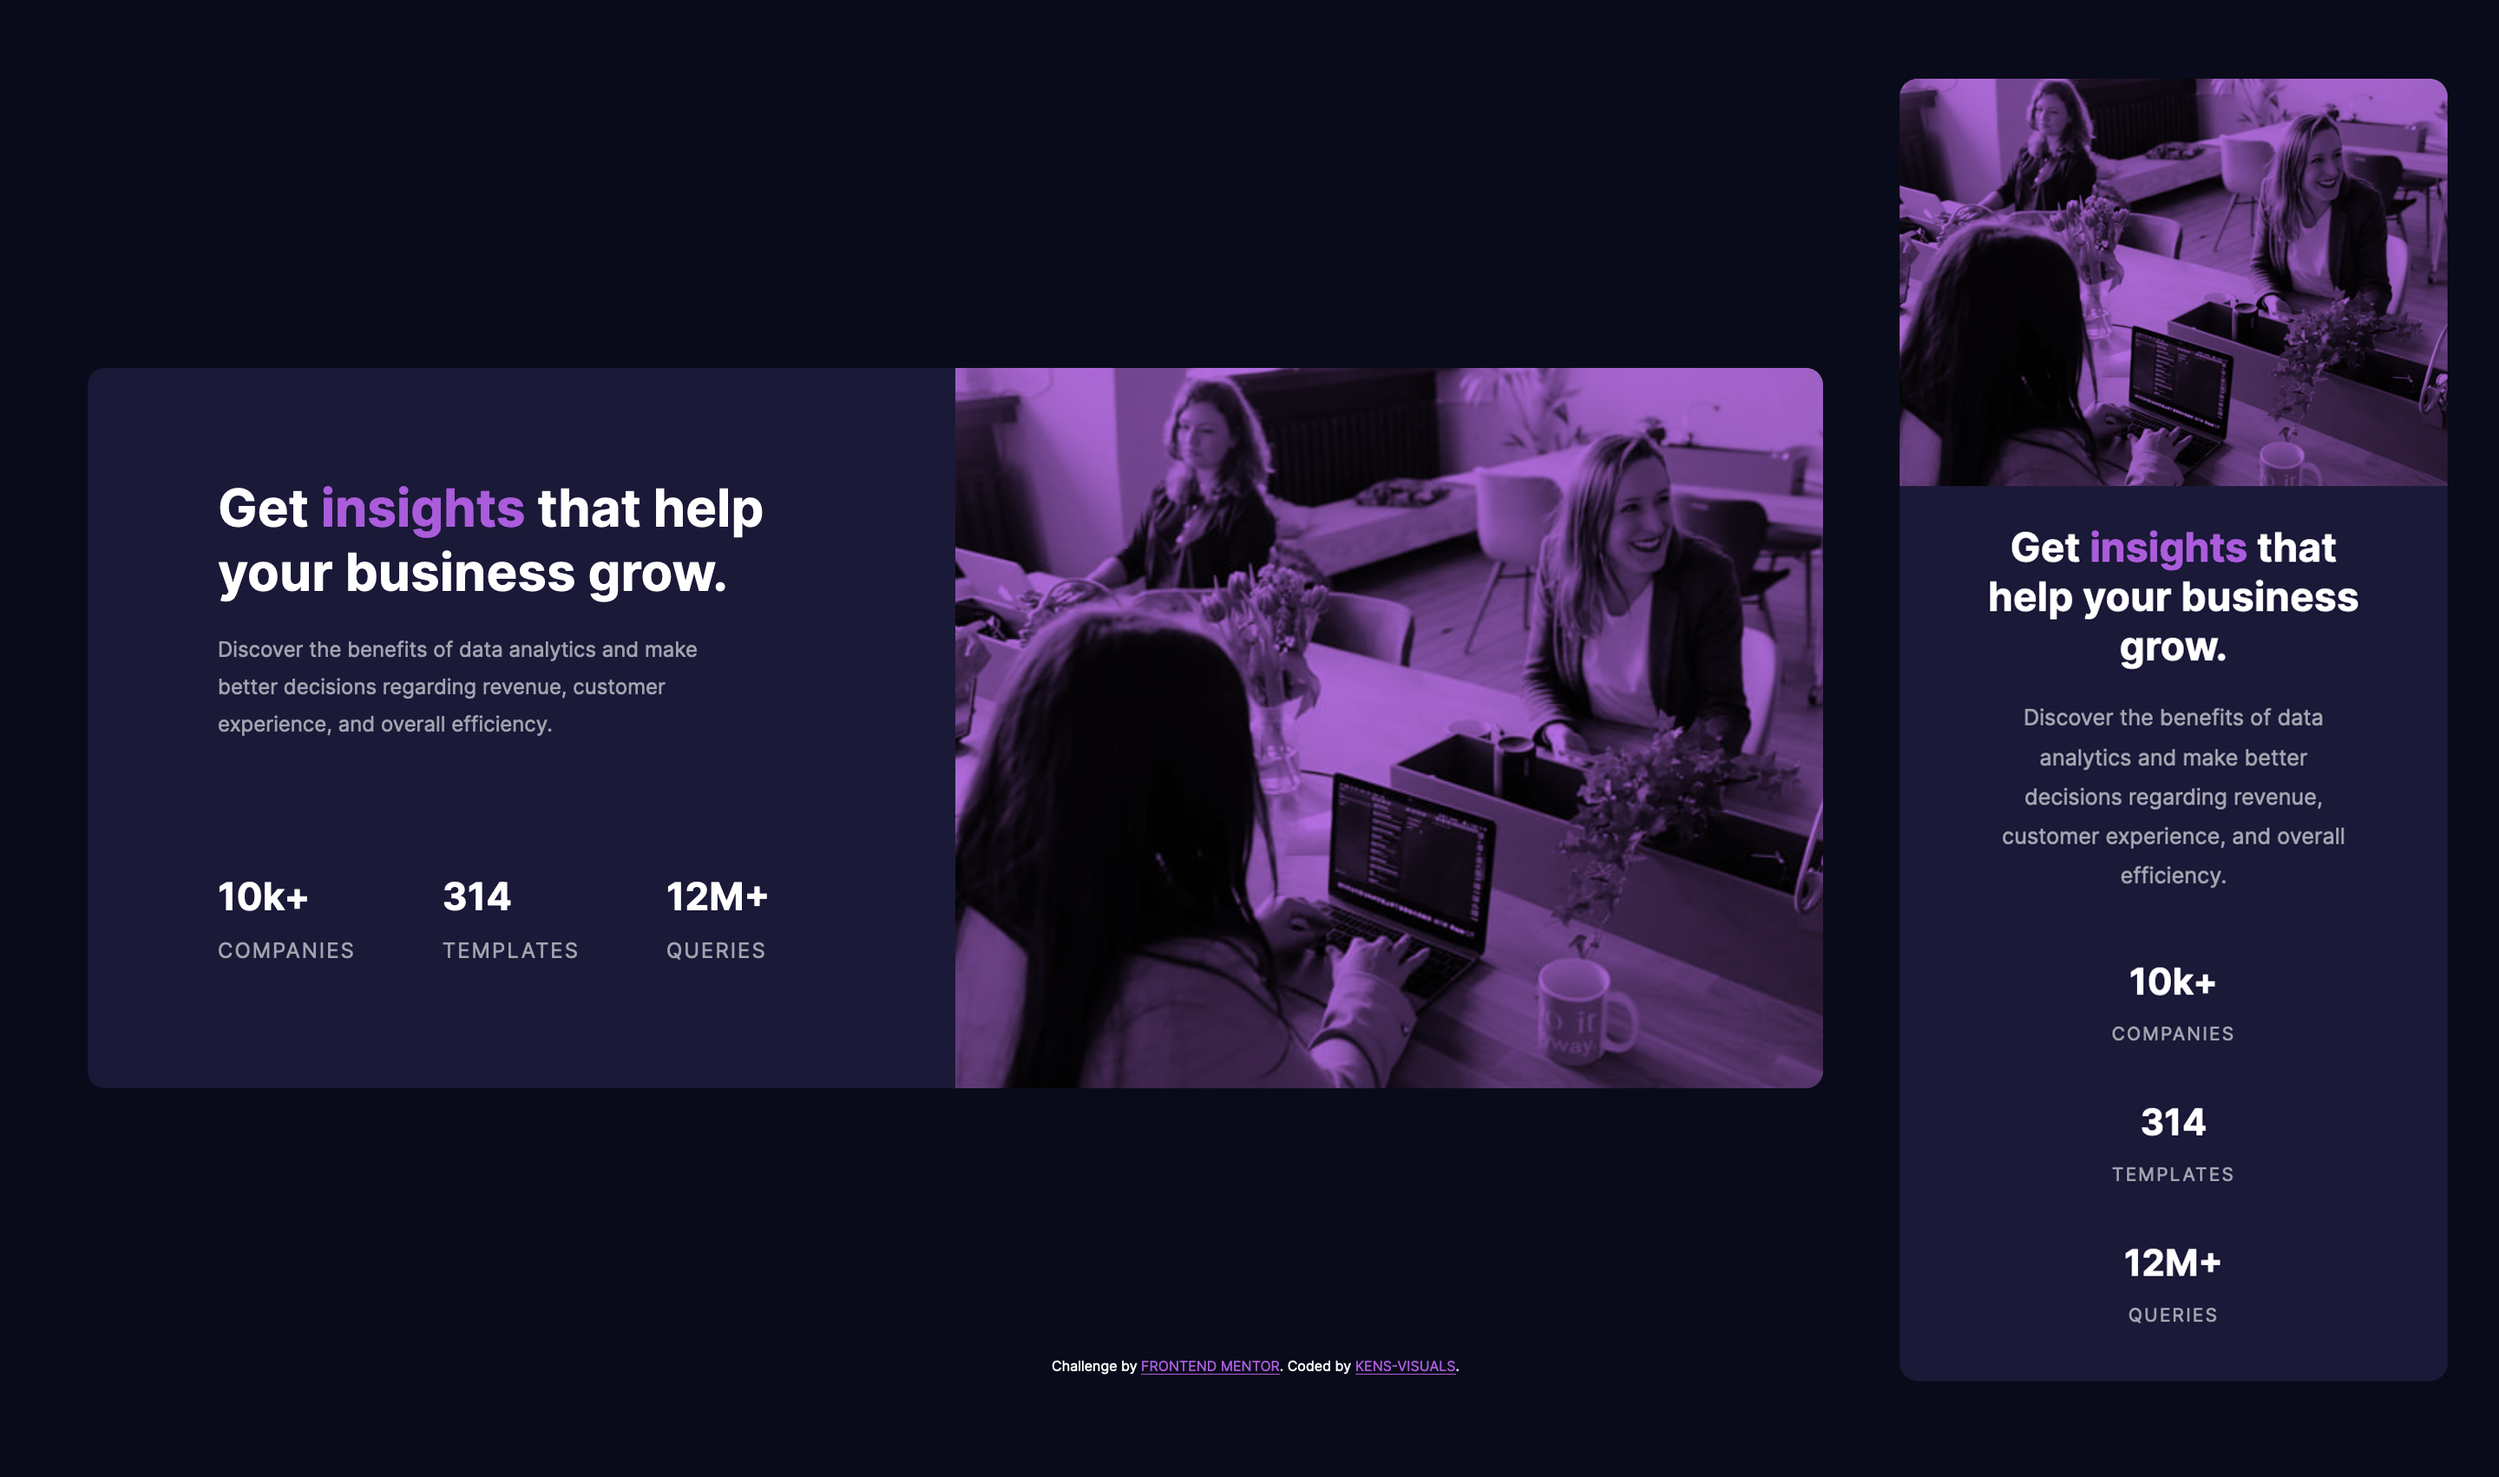
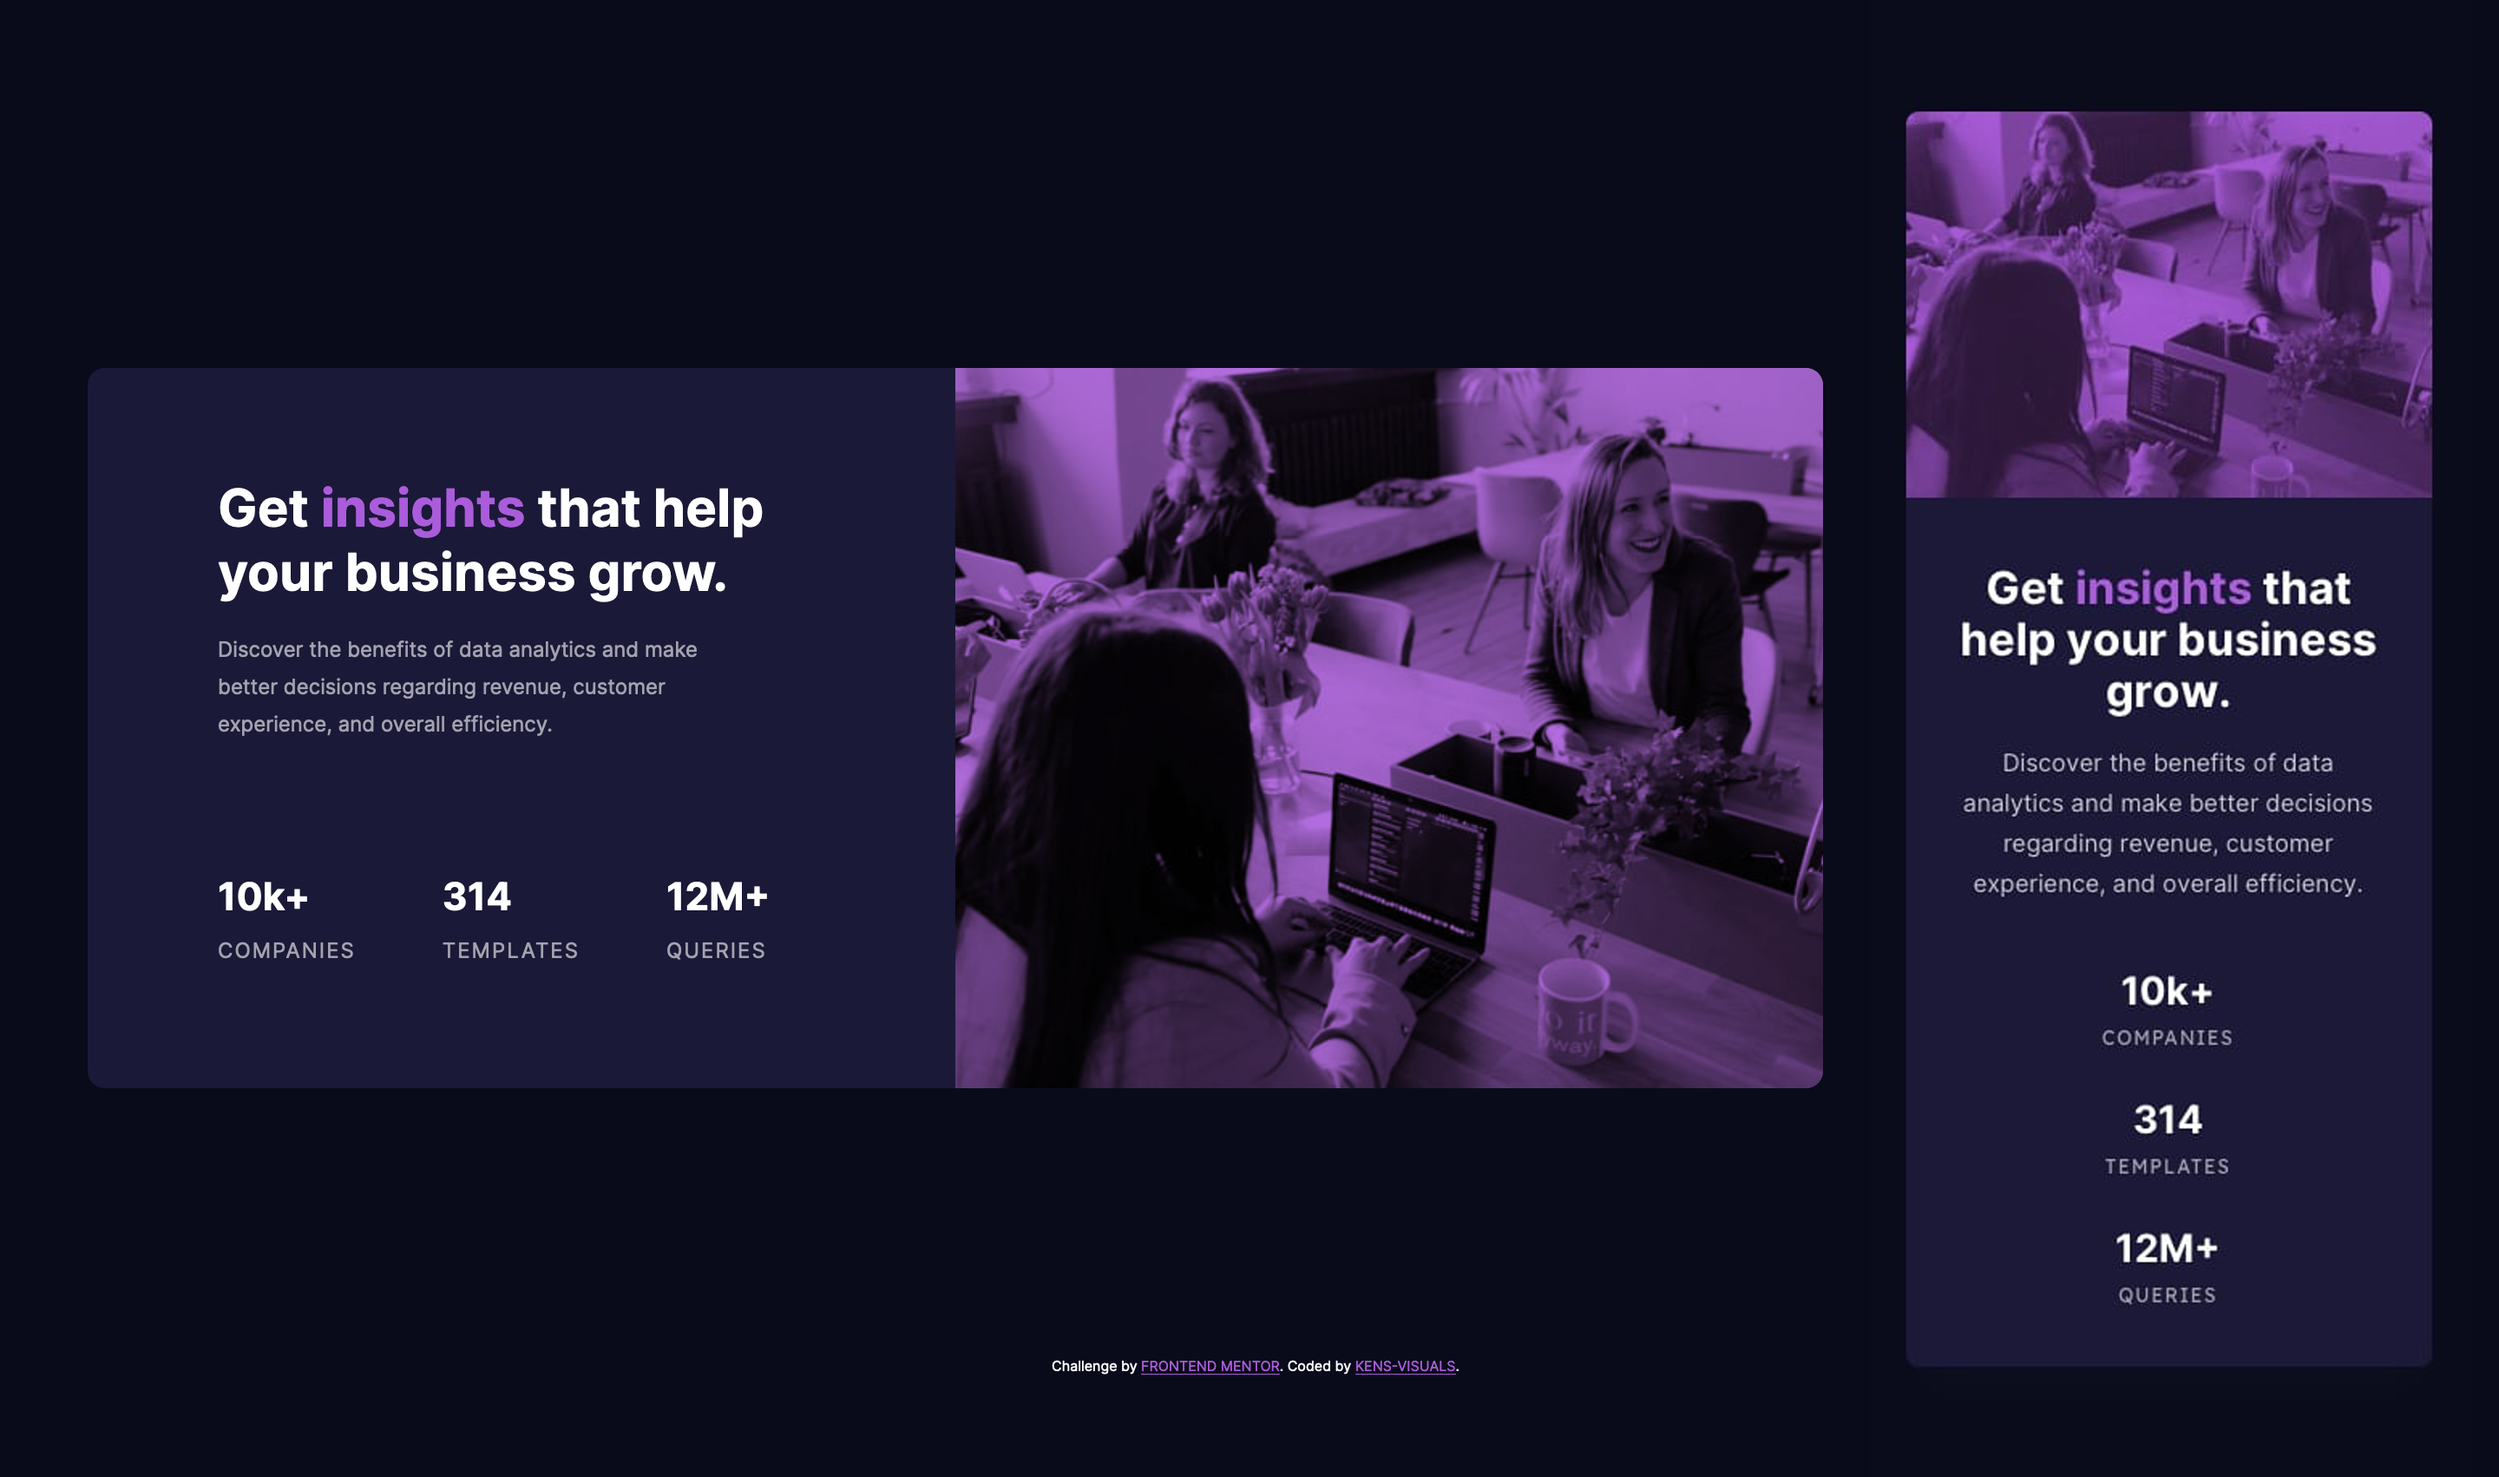
update README

Changed region(s): [[0.75, 0.0311, 1.0, 0.9342], [0.8438, 0.6539, 0.9062, 0.7162]]

diff --git a/css/style.css b/css/style.css
@@ -23,7 +23,7 @@ body {
 
 .container {
   width: 85%;
-  max-width: 300px; }
+  max-width: 325px; }
   @media (min-width: 1180px) {
     .container {
       max-width: 1000px; } }

diff --git a/scss/_layout.scss b/scss/_layout.scss
@@ -1,6 +1,6 @@
 .container {
   width: 85%;
-  max-width: 300px;
+  max-width: 325px;
 
   @media (min-width: 1180px) {
     max-width: 1000px;
